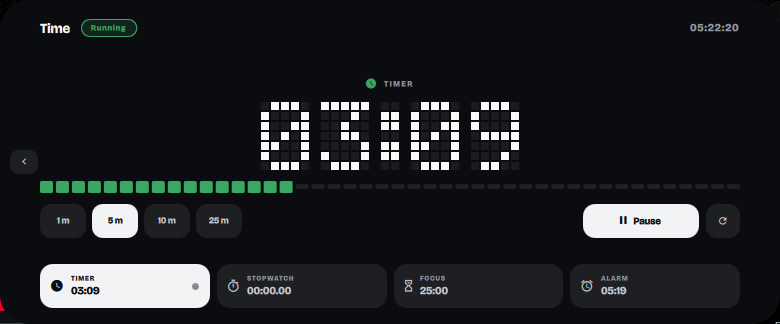
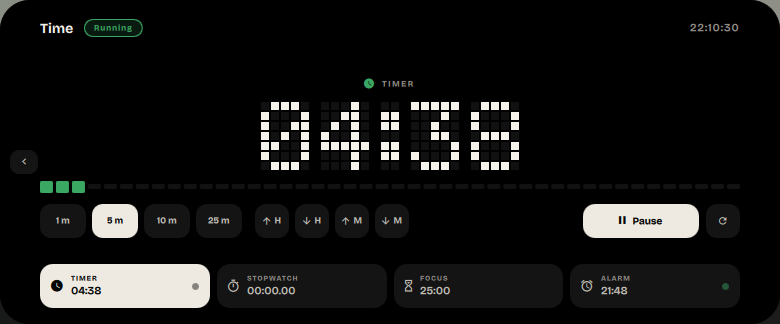
docs/screenshots: yanlışlıkla eklenen kişisel ekran görüntüsünü kaldır, Time şotunu güncelle
"Yapıştırılan resim.png" proje varlığı değildi, kullanıcının kişisel
masaüstü ekran görüntüsüydü (WiFi adı dahil) — kaldırıldı.

time-tools.png, Timer'a eklenen yeni H/M özel süre stepper'larını
yansıtacak şekilde yeniden çekildi; index.html'deki ilgili alt metin
ve açıklama buna göre güncellendi.

diff --git a/docs/index.html b/docs/index.html
@@ -631,8 +631,8 @@ footer .sp { flex: 1; }
         <figcaption>Raised the moment the microphone or camera starts or stops. Polled at a steady rate even while collapsed.</figcaption>
       </figure>
       <figure class="state-shot" id="state-8" role="tabpanel" hidden>
-        <img src="screenshots/time-tools.png" alt="The time page showing a running timer at three minutes nine seconds, a progress strip of square cells, duration presets, and a rail of four modes below" loading="lazy" width="780" height="324">
-        <figcaption>A timer, a stopwatch with laps, a focus cycle and an alarm as one instrument that retunes, rather than four widgets splitting the width. The readout is drawn in the same 5×7 matrix as the clock, and progress is a strip of those same square cells. The rail below keeps the three modes that are not on stage reporting their live values.</figcaption>
+        <img src="screenshots/time-tools.png" alt="The time page showing a running timer at four minutes thirty-eight seconds, a progress strip of square cells, duration presets, hour/minute steppers, and a rail of four modes below" loading="lazy" width="780" height="324">
+        <figcaption>A timer, a stopwatch with laps, a focus cycle and an alarm as one instrument that retunes, rather than four widgets splitting the width. The readout is drawn in the same 5×7 matrix as the clock, and progress is a strip of those same square cells. Presets cover the common lengths; the H/M steppers next to them reach any other one. The rail below keeps the three modes that are not on stage reporting their live values.</figcaption>
       </figure>
       <figure class="state-shot" id="state-9" role="tabpanel" hidden>
         <img src="screenshots/time-alert.png" alt="A completion card reading Time's up, five minute timer finished, with a dismiss button" loading="lazy" width="470" height="128">
